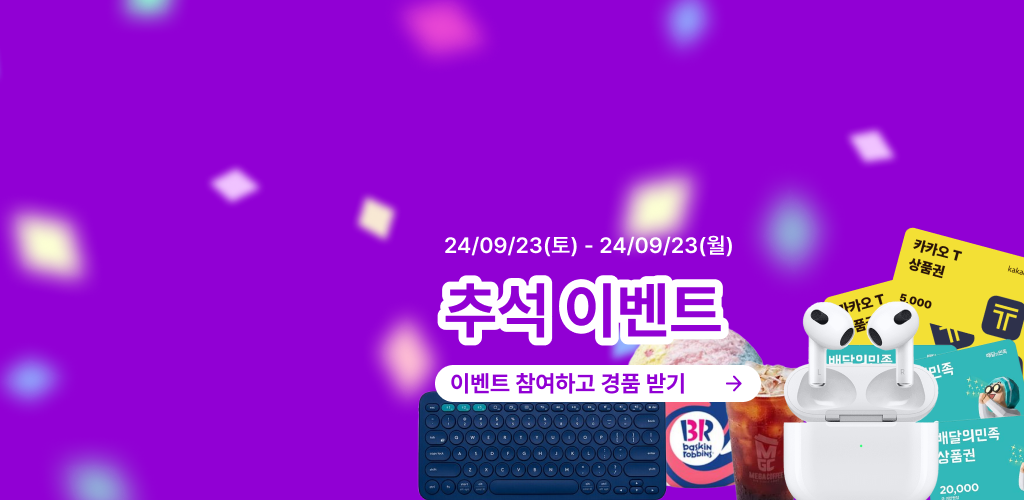
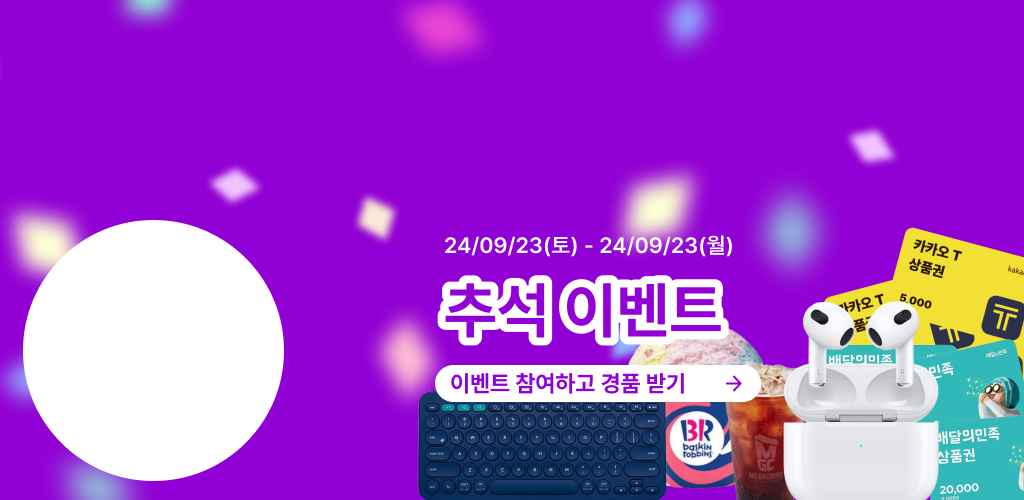
Add: implement eventInviteHandler

Changed region(s): [[0.0, 0.42, 0.2812, 0.96]]

diff --git a/main.py b/main.py
@@ -13,13 +13,16 @@ import os
 load_dotenv()
 API_ROOM_INFO = os.environ["API_ROOM_INFO"] if "API_ROOM_INFO" in os.environ \
     else "https://taxi.sparcs.org/api/rooms/publicInfo?id={}"
-API_USER_INFO = os.environ["API_USER_INFO"] if "API_USER_INFO" in os.environ \
-    else "https://taxi.sparcs.org/api/users/publicInfo?id={}"  # TODO: need to be updated in backend side or sync the endpoint
+API_INVITER_INFO = os.environ["API_INVITER_INFO"] if "API_INVITER_INFO" in os.environ \
+    else "https://taxi.sparcs.org/api/events/2024fall/invites/search/{}"
 FRONT_URL = os.environ["FRONT_URL"] if "FRONT_URL" in os.environ \
     else "https://taxi.sparcs.org"
 
 # KST timezone setting
 timezone_kst = datetime.timezone(datetime.timedelta(hours = 9))
+
+# event type setting
+event_type = "event2024fall" # back to None
 
 # initialization
 app = FastAPI()
@@ -50,10 +53,15 @@ fonts = {
         "date": ImageFont.truetype("fonts/NanumSquare_acEB.ttf", 40), 
         "name": ImageFont.truetype("fonts/NanumSquare_acR.ttf", 40), 
     },
+    "eventInvite": {
+        "nickname": ImageFont.truetype("fonts/NanumSquare_acEB.ttf", 64),
+        "message": ImageFont.truetype("fonts/NanumSquare_acEB.ttf", 40),
+    },
 }
 colors = {
-    "purple": (110, 54, 120, 1),
-    "black": (50, 50, 50, 1),
+    "purple": (110, 54, 120),
+    "black": (50, 50, 50),
+    "white": (255, 255, 255),
 }
 
 def date2text(date):
@@ -95,11 +103,9 @@ async def mainHandler(roomId: str):
             "name": roomInfo["name"],
         }
 
-        event_type = "event2024fall"    #back to None
-        
         # load background image
         img_og = Image.fromarray(images["background"] if event_type == None else images["background.{}".format(event_type)])
-        draw = ImageDraw.Draw(img_og, 'RGBA')
+        draw = ImageDraw.Draw(img_og, "RGBA")
 
         # select draw type
         # if location text width is less than 784, use type1
@@ -167,41 +173,69 @@ async def mainHandler(roomId: str):
         print(e)
         return defaultImage()
 
-    @app.get("/eventInvite/{userId}")
-    async def eventInviteHandler(userId: str):
-        try:
-            # get user information
-            res = requests.get(API_USER_INFO.format(userId), headers={"Origin": FRONT_URL})
-            if res.status_code != 200:
-                raise ValueError("recommandHandler : Invalid userId")
-            userInfo = res.json()
+@app.get("/eventInvite/{inviterId}")
+async def eventInviteHandler(inviterId: str):
+    try:
+        if not event_type in ["event2024fall"]:
+            raise ValueError("eventInviteHandler : Invalid event_type")
 
-            # convert user information to text
-            text = {
-                "nickname": userInfo["nickname"],
-                "profileImageUrl": userInfo["profileImageUrl"],
-            }
+        # get inviter information
+        res = requests.get(API_INVITER_INFO.format(inviterId), headers={"Origin": FRONT_URL})
+        if res.status_code != 200:
+            raise ValueError("eventInviteHandler : Invalid inviterId")
+        inviterInfo = res.json()
 
-            event_type = "event2024fall.eventInvite"    
+        # load profile image
+        res_profile = requests.get(inviterInfo["profileImageUrl"], headers={"Origin": FRONT_URL})
+        if res_profile.status_code != 200:
+            raise ValueError("eventInviteHandler : Invalid profileImageUrl")
+        img_profile = Image.open(BytesIO(res_profile.content))
 
-            # load background image
-            img_og = Image.fromarray(images["background"] if event_type == None else images["background.{}".format(event_type)])
-            draw = ImageDraw.Draw(img_og, 'RGBA')
+        # convert inviter information to text
+        text = {
+            "nickname": inviterInfo["nickname"],
+            "message": "님이 이벤트에 초대했습니다."
+        }
 
-            # select draw type
-            # if location text width is less than 784, use type1
-            # else, use type2
-            draw_type = "type1" if predictWidth(draw, text["from"] + text["to"], fonts["type1"]["title"]) <= 784 \
-                else "type2" if predictWidth(draw, text["from"] + text["to"], fonts["type2"]["title"]) <= 784 \
-                else "type3"
-            
-            if event_type == "event2024fall.eventInvite" and draw_type == "type1":  
-                draw_type = "type2"
+        # load background image
+        img_og = Image.fromarray(images["background.{}.eventInvite".format(event_type)])
+        draw = ImageDraw.Draw(img_og, "RGBA")
 
-            # draw nickname
+        # draw nickname
+        nickname = text["nickname"]
+        while predictWidth(draw, nickname, fonts["eventInvite"]["nickname"]) > 784:
+            nickname = nickname[:-1]
+        if nickname != text["nickname"]: 
+            nickname += "…"
 
-            # draw profile image
+        draw.text((31, 53), nickname, font=fonts["eventInvite"]["nickname"], fill=colors["white"])
 
-        except ValueError as e: 
-            print(e)
-            return defaultImage()
+        # draw message
+        draw.text((31, 140), text["message"], font=fonts["eventInvite"]["message"], fill=colors["white"])
+
+        # draw profile image
+        img_profile = img_profile.resize((245, 245))
+
+        scale_factor = 4 # for anti-aliasing
+        scaled_size = (img_profile.size[0] * scale_factor, img_profile.size[1] * scale_factor)
+
+        mask = Image.new("L", scaled_size, 0)
+        draw_mask = ImageDraw.Draw(mask)
+        draw_mask.ellipse((0, 0) + scaled_size, fill=255)
+
+        mask = mask.resize(img_profile.size, Image.LANCZOS)
+        img_og.paste(img_profile, (31, 228), mask)
+
+        # convert to png image
+        res, img_png = cv2.imencode(".png", np.array(img_og))
+
+        # response
+        return StreamingResponse(BytesIO(img_png.tobytes()), media_type="image/png")
+
+    except ValueError as e: 
+        print(e)
+        return defaultImage()
+
+    except Exception as e:
+        print(e)
+        return defaultImage()
